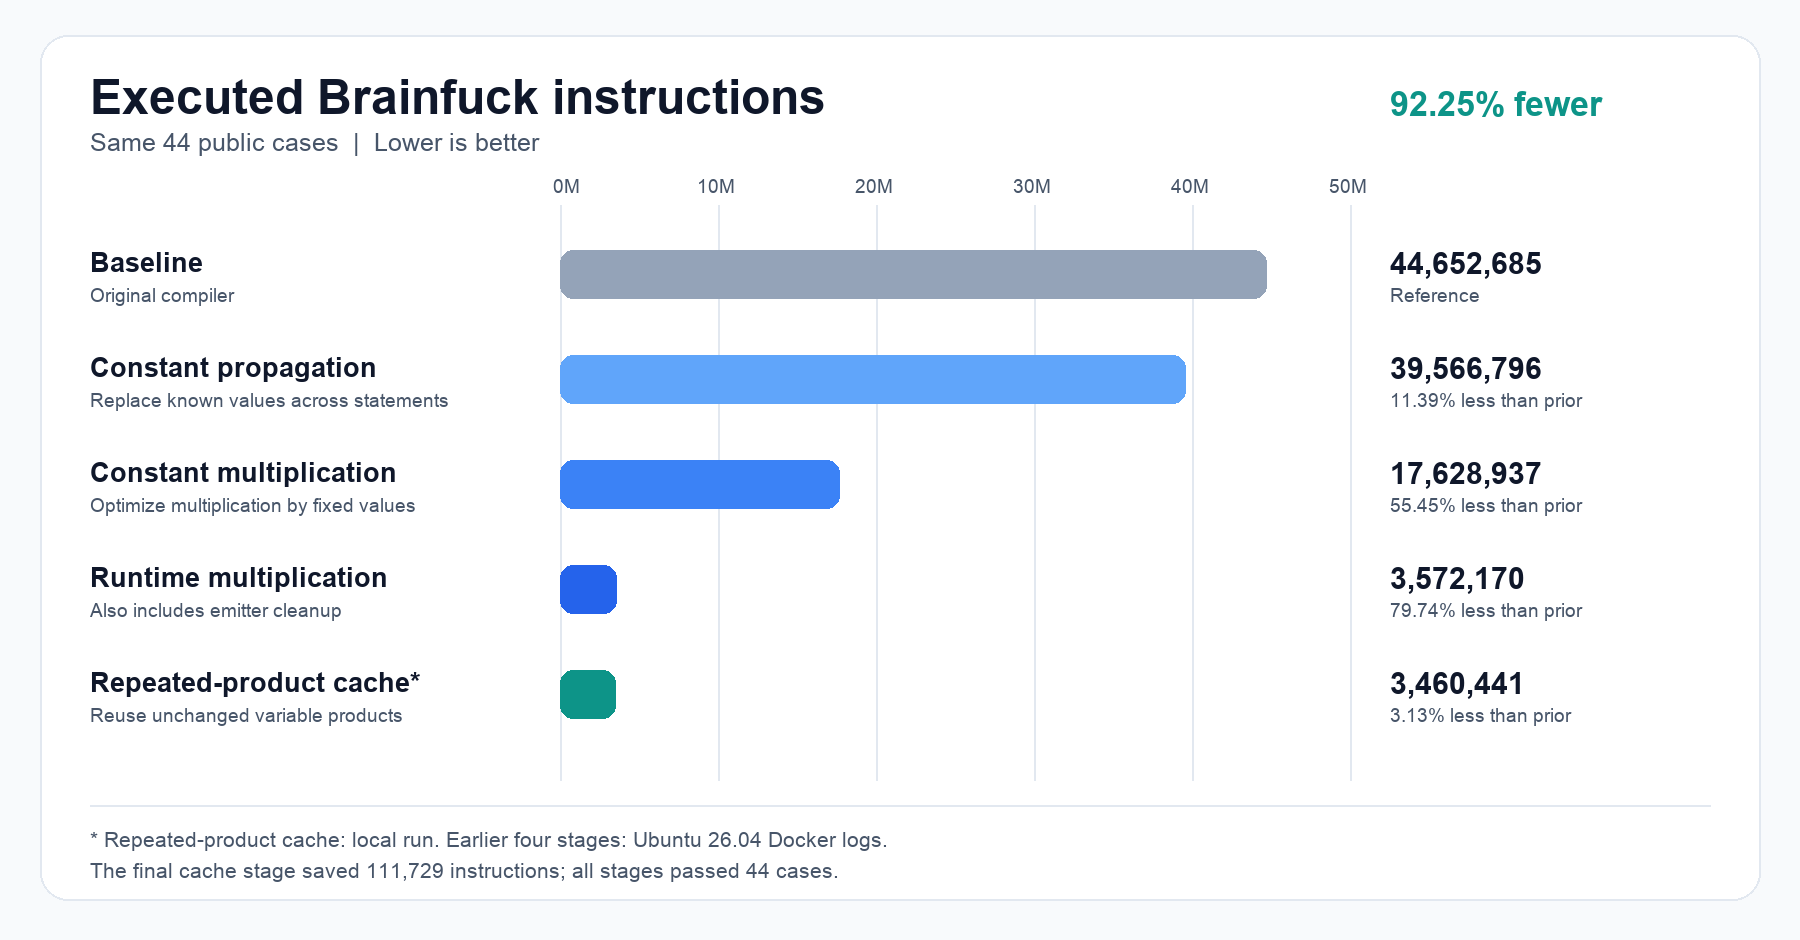
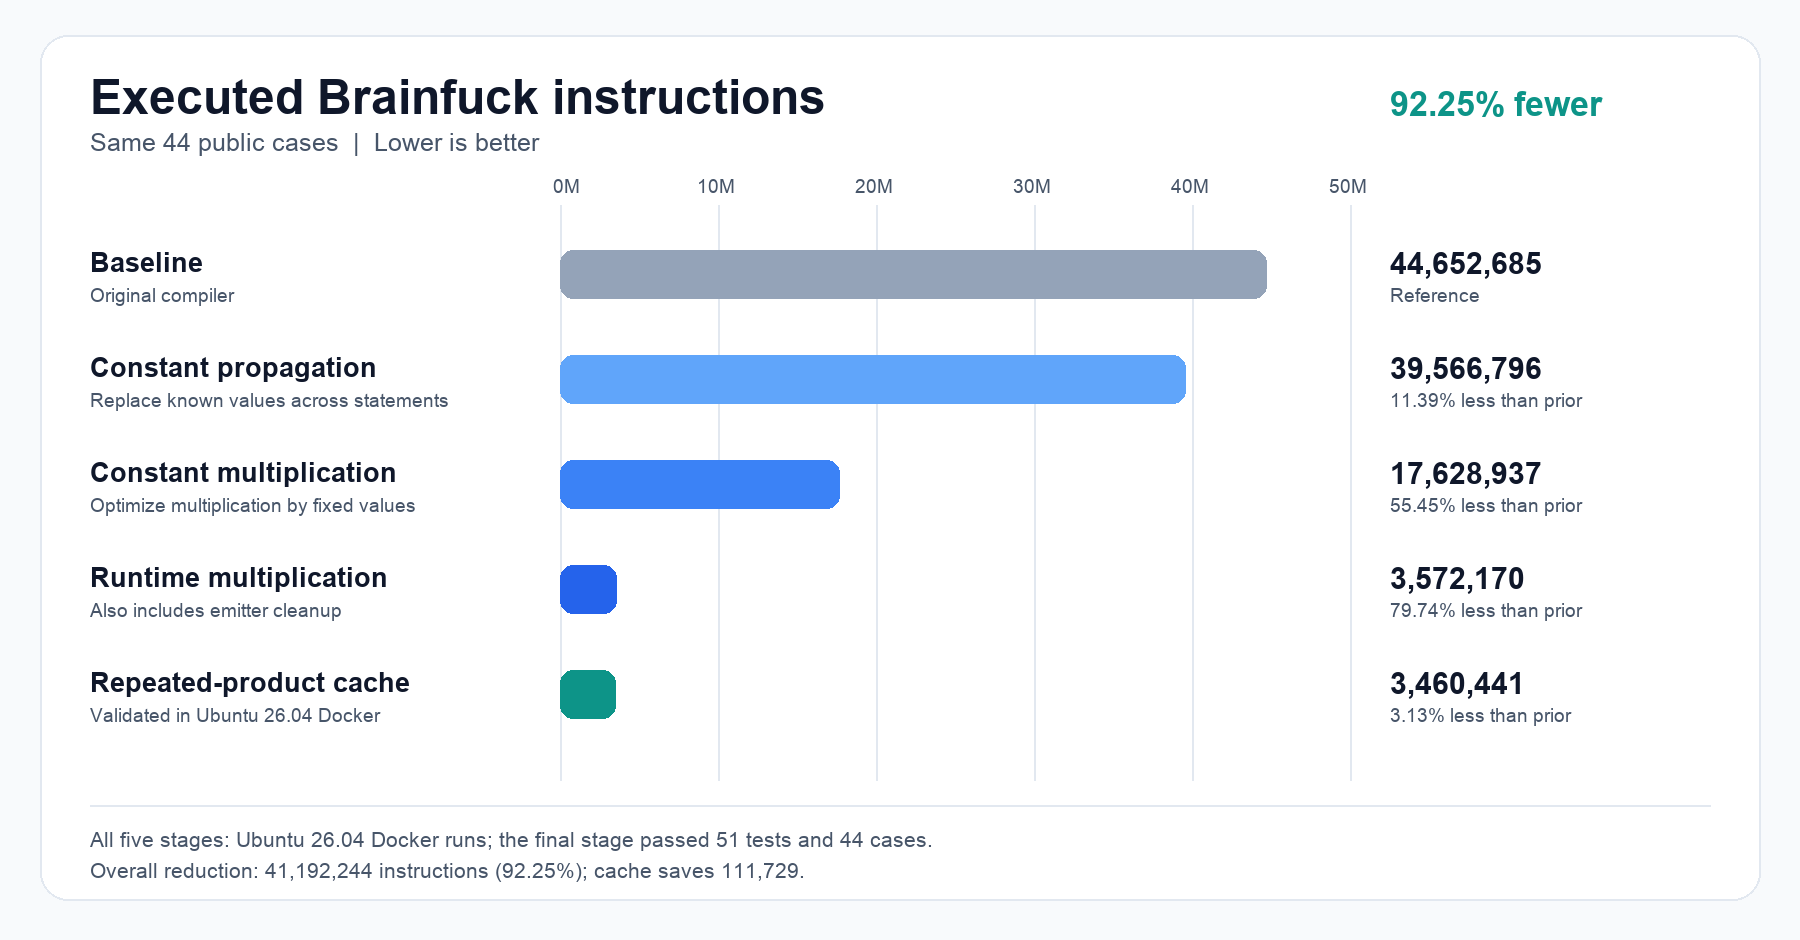
update Readme

Changed region(s): [[0.0622, 0.8638, 0.4978, 0.9564], [0.0311, 0.7404, 0.2178, 0.7713]]

diff --git a/README.md b/README.md
@@ -3,16 +3,19 @@
 Advanced C++: Large-Scale Projects and Object-Oriented Design Homework 3: Expression to Brainfuck Compiler
 
 ## 作業心得
+我使用與作業規格相符的 Ubuntu 26.04、GCC 15.2.0 Docker 環境建置與測試。最終版本以 `g++ -O2 -std=c++20 -Wall -Wextra -Wpedantic` 編譯，通過 51 項功能測試及 44 項效能案例。圖表呈現相同公開案例在各最佳化階段的 Brainfuck 指令總步數。
 
 這次作業讓我了解，將 Expr 轉成 Brainfuck 需要完整的編譯流程。我先規劃逐行移除註解、切出 token、建立敘述與表達式樹、檢查變數、最佳化表達式，最後配置 Brainfuck 記憶體格並輸出程式。
 
 實作時，我特別注意運算子優先順序，以及指派敘述必須先算完右側，才能覆寫左側變數。例如 `a = a * (a + 1)` 必須保留原本的 `a`。暫存格重用前也必須確認其值已清零。此外，即使 `input()` 的結果未被使用，仍須保留讀取動作，避免改變後續輸入的順序。
 
-最佳化方面，程式會進行常數折疊、跨敘述常數傳播及無效指派移除。產生 Brainfuck 時，我也減少不必要的暫存格清零與複製；常數乘法使用較省步數的運算方式，兩個執行期數值相乘則採用「乘數減半、被乘數加倍」的方法。目前另在本機測試重複乘法結果的快取，以減少相同運算的執行次數。
+最佳化方面，程式會進行常數折疊、跨敘述常數傳播及無效指派移除。產生 Brainfuck 時，我也減少不必要的暫存格清零與複製；常數乘法使用較省步數的運算方式，兩個執行期數值相乘則採用「乘數減半、被乘數加倍」的方法。程式也已完成重複乘法結果快取，在變數值未改變時重用先前的乘積。
 
 ## 最佳化項目與效果
 
-下圖比較同一組 44 個公開案例的總執行步數。`Executed instructions` 是 BrainfuckRunner 執行產出程式時的指令數，包含迴圈反覆執行的指令，不是 Expr 編譯器執行的 C++ 指令數。所有版本均通過這 44 個案例。
+下圖比較同一組 44 個公開案例的總執行步數，所有版本均通過這 44 個案例。
+`Executed instructions` 是 BrainfuckRunner 執行產出程式時的指令數，包含迴圈反覆執行的指令。
+
 
 ![44 個案例的 Brainfuck 執行指令數下降圖](instruction_steps.png)
 
@@ -22,22 +25,14 @@ Advanced C++: Large-Scale Projects and Object-Oriented Design Homework 3: Expres
 | 加入跨敘述常數傳播 | 39,566,796 | 5,085,889（11.39%） |
 | 最佳化常數乘法產碼 | 17,628,937 | 21,937,859（55.45%） |
 | 改進執行期乘法及暫存格產碼 | 3,572,170 | 14,056,767（79.74%） |
-| 快取重複的變數乘積（本機測試） | 3,460,441 | 111,729（3.13%） |
+| 快取重複的變數乘積 | 3,460,441 | 111,729（3.13%） |
 
-- **常數傳播：**跨敘述追蹤已知的變數值，讓後續表達式能在編譯時先計算。例如 `01_constants` 從 890,162 步降至 730 步。
-- **常數乘法：**對乘數為常數的表達式使用專門產碼，並以 mod 256 選擇較短的加法或減法。`06_strength` 從 819,165 步降至 13,084 步。
-- **執行期乘法：**對兩個執行期值，改用乘數減半、被乘數加倍的演算法，同時整理暫存格重用與部分不必要的清零。`10_runtime_product` 從 530,436 步降至 46,270 步。此階段同時包含產碼整理，表中的減少量不能單獨歸因於乘法演算法。
-- **重複乘積快取：**若相同的兩個變數在值未改變前再次相乘，就重用先前結果，並在最後一次使用後釋放快取。`04_cse` 從 141,729 步降至 48,694 步。公開案例中只有 `04_cse` 與 `11_zero_product` 的步數改變，其餘 42 個案例維持原數值；因此快取對沒有重複乘積的案例沒有直接效果。
+- **常數傳播：** 跨敘述追蹤已知的變數值，讓後續表達式能在編譯時先計算。例如 `01_constants` 從 890,162 步降至 730 步。
+- **常數乘法：** 對乘數為常數的表達式使用專門產碼，並以 mod 256 選擇較短的加法或減法。`06_strength` 從 819,165 步降至 13,084 步。
+- **執行期乘法：** 對兩個執行期值，改用乘數減半、被乘數加倍的演算法，同時整理暫存格重用與部分不必要的清零。`10_runtime_product` 從 530,436 步降至 46,270 步。此階段同時包含產碼整理，表中的減少量不能單獨歸因於乘法演算法。
+- **重複乘積快取：** 若相同的兩個變數在值未改變前再次相乘，就重用先前結果，並在最後一次使用後釋放快取。`04_cse` 從 141,729 步降至 48,694 步。公開案例中只有 `04_cse` 與 `11_zero_product` 的步數改變，其餘 42 個案例維持原數值；因此快取對沒有重複乘積的案例沒有直接效果。
 
-前四個數值來自 Ubuntu 26.04、GCC 15.2.0 Docker 環境的紀錄。快取版本在本機重新編譯後通過 51 項功能測試及 44 項效能案例，但仍需在相同的 Docker 環境再次確認。從原始版本到本機快取版本，總步數減少 92.25%。助教會替換效能案例，因此公開案例的改善不保證隱藏案例有相同幅度。
-
-## 測試環境
-
-我使用與作業規格相符的 Ubuntu 26.04、GCC 15.2.0 Docker 環境建置與測試。加入執行期乘法最佳化後，已在 Docker 通過 51 項功能測試與 44 項效能案例。五個版本的案例輸出皆正確；最後一個快取版本的數值為本機量測。
-
-## 後續量測方向
-
-目前步數最高的 `random_105`、`random_107` 等案例，在加入重複乘積快取後並未下降。它們含有大常數乘法、平方或巢狀執行期乘法。下一步可分別製作只包含這些運算的測例，使用 `0`、`1`、`127`、`128`、`254`、`255` 等邊界輸入，比較不同產碼方式的步數，再檢查完整 44 個案例是否整體改善。
+表中五個數值皆來自 Ubuntu 26.04、GCC 15.2.0 Docker 環境的測試紀錄。最終快取版本通過 51 項功能測試與 44 項效能案例，44 個案例的總步數為 3,460,441；相較原始版本減少 92.25%。
 
 ## AI 使用揭露
 
